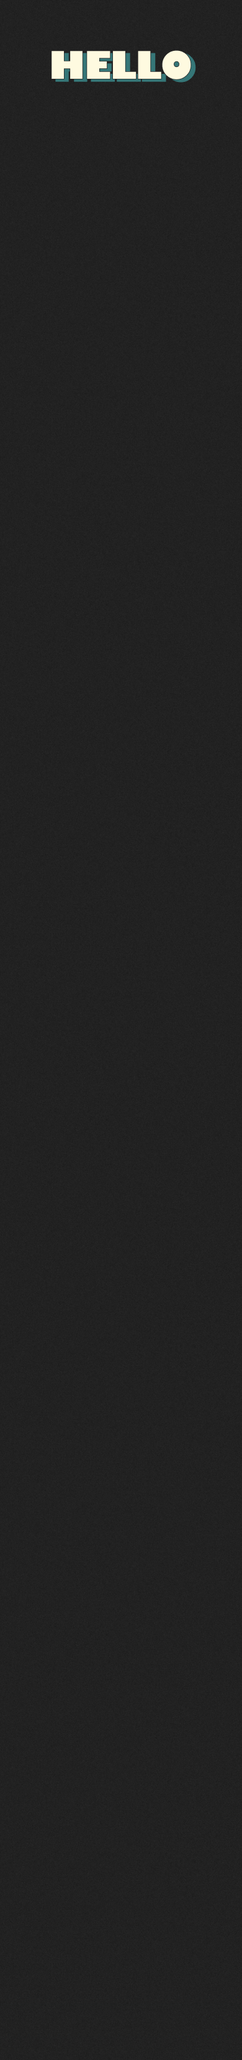
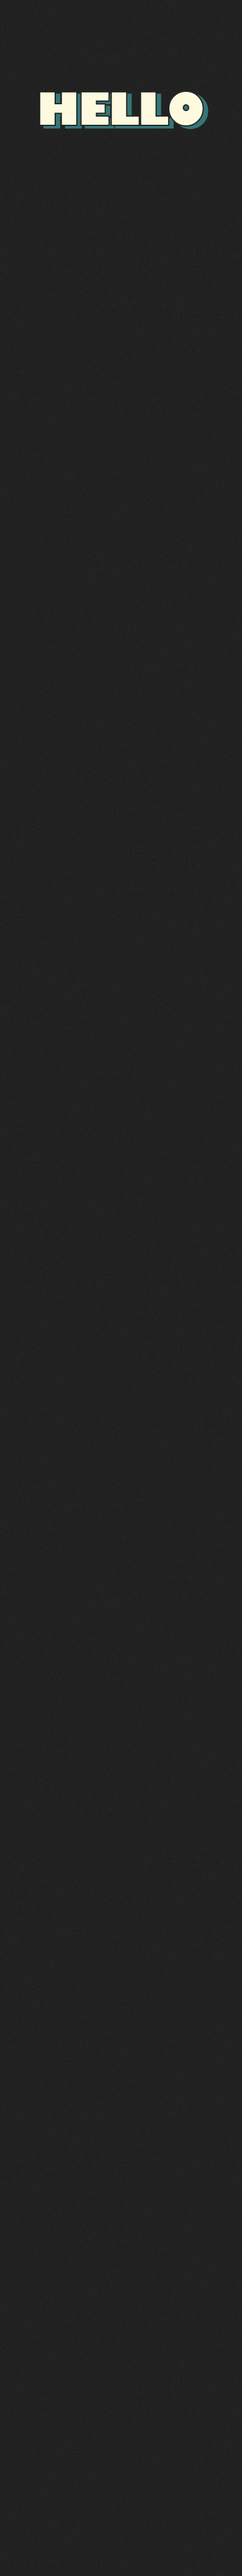
backgrounds fix

Changed region(s): [[0.1538, 0.0, 0.8615, 0.062]]

diff --git a/style.css b/style.css
@@ -1,11 +1,18 @@
 
 body {
-    background-image: url('images/backgroundDESK.png');
+    background-image: url('images/projects\ bkg\ fixed.png');
     background-size: cover;
+    background-attachment: fixed;
     background-repeat: no-repeat;
     margin: 0%;
     color: #FEFAE0;
 
+}
+
+.hero {
+  background-image: url('images/HERO\ IMG.png');
+  background-repeat: no-repeat;
+  background-size: cover;
 }
 
 .allshit{
@@ -27,6 +34,10 @@ html {
    background-image: url('images/ok.png');
    background-position: center;
    background-size: cover;
+ }
+
+ .hero{
+  background-image: none;
  }
   }
 
@@ -90,6 +101,9 @@ html {
     
 }
 
+.helloph{
+  display: none;
+}
 
 
 
@@ -129,13 +143,18 @@ html {
 
 @media only screen and (max-width: 391px)  {
 
+
+  .helloph{
+    display: block;
+  }
+
 .herosec{
   flex-direction: column;
   margin-top: 10%;
 }
 
 .herosec .text h1 {
-  margin-top: 40%;
+  margin-top: 20%;
   font-size: 30px;
   font-weight: 900;
 }

diff --git a/aboutme.css b/aboutme.css
@@ -1,20 +1,32 @@
 body {
-    background-image: url('images/aboutme\ last\ bkg.png');
+    background-image: url('images/projects\ bkg\ fixed.png');
     background-size: cover;
-    background-repeat:no-repeat;
+    background-attachment: fixed;
+    background-repeat: no-repeat;
     margin: 0%;
     color: #FEFAE0;
 
 }
 
+
+.hero {
+  background-image: url('images/HERO\ ABOUT.png');
+  background-repeat: no-repeat;
+  background-size:contain;
+}
+
+
 @media only screen and (max-width: 391px)  {
 
-body{
-    background-image: url('images/aboutme-390-bkg.png');
-}
+    body{
+        background-image: url('images/aboutme-390-bkg.png');
+    }
 
+    .hero{
+    background-image: none;
+    }
+    
 }
- 
 
 .allshit{
     margin-left: 7.3%;

diff --git a/index.html b/index.html
@@ -15,6 +15,9 @@
 <body>
     
 
+  <!-- for the cover image -->
+  <div class="hero">
+
 <!-- HEADER -->
 <header class="navbar">
   <div class="navbar-inner">
@@ -52,6 +55,7 @@
 <!-- herosection -->
     <div class="herosec">
         <div class="text">
+          <img src="images/hello img phone.png" class="helloph" alt="Image">
             <h1>I'M EVGENIA, I like to design,</h1>
             <p>Multimedia designer with passion for UX/UI design,
                 <br> photography, visual art and moree</p>
@@ -68,7 +72,7 @@
     <div class="thin-line"></div>
     </div>
 
-
+</div>
 
 <!-- ALLSHIT SECTION -->
 <div class="allshit"> 

diff --git a/aboutme.html b/aboutme.html
@@ -18,6 +18,7 @@
 </head>
 <body>
     
+    <div class="hero">
 
 
     <header class="navbar">
@@ -90,7 +91,8 @@
 </section>
 
 
-
+</div>
+<!-- end of hero section -->
 
 <div class="responsiveline">
     <div class="thin-line"></div>
